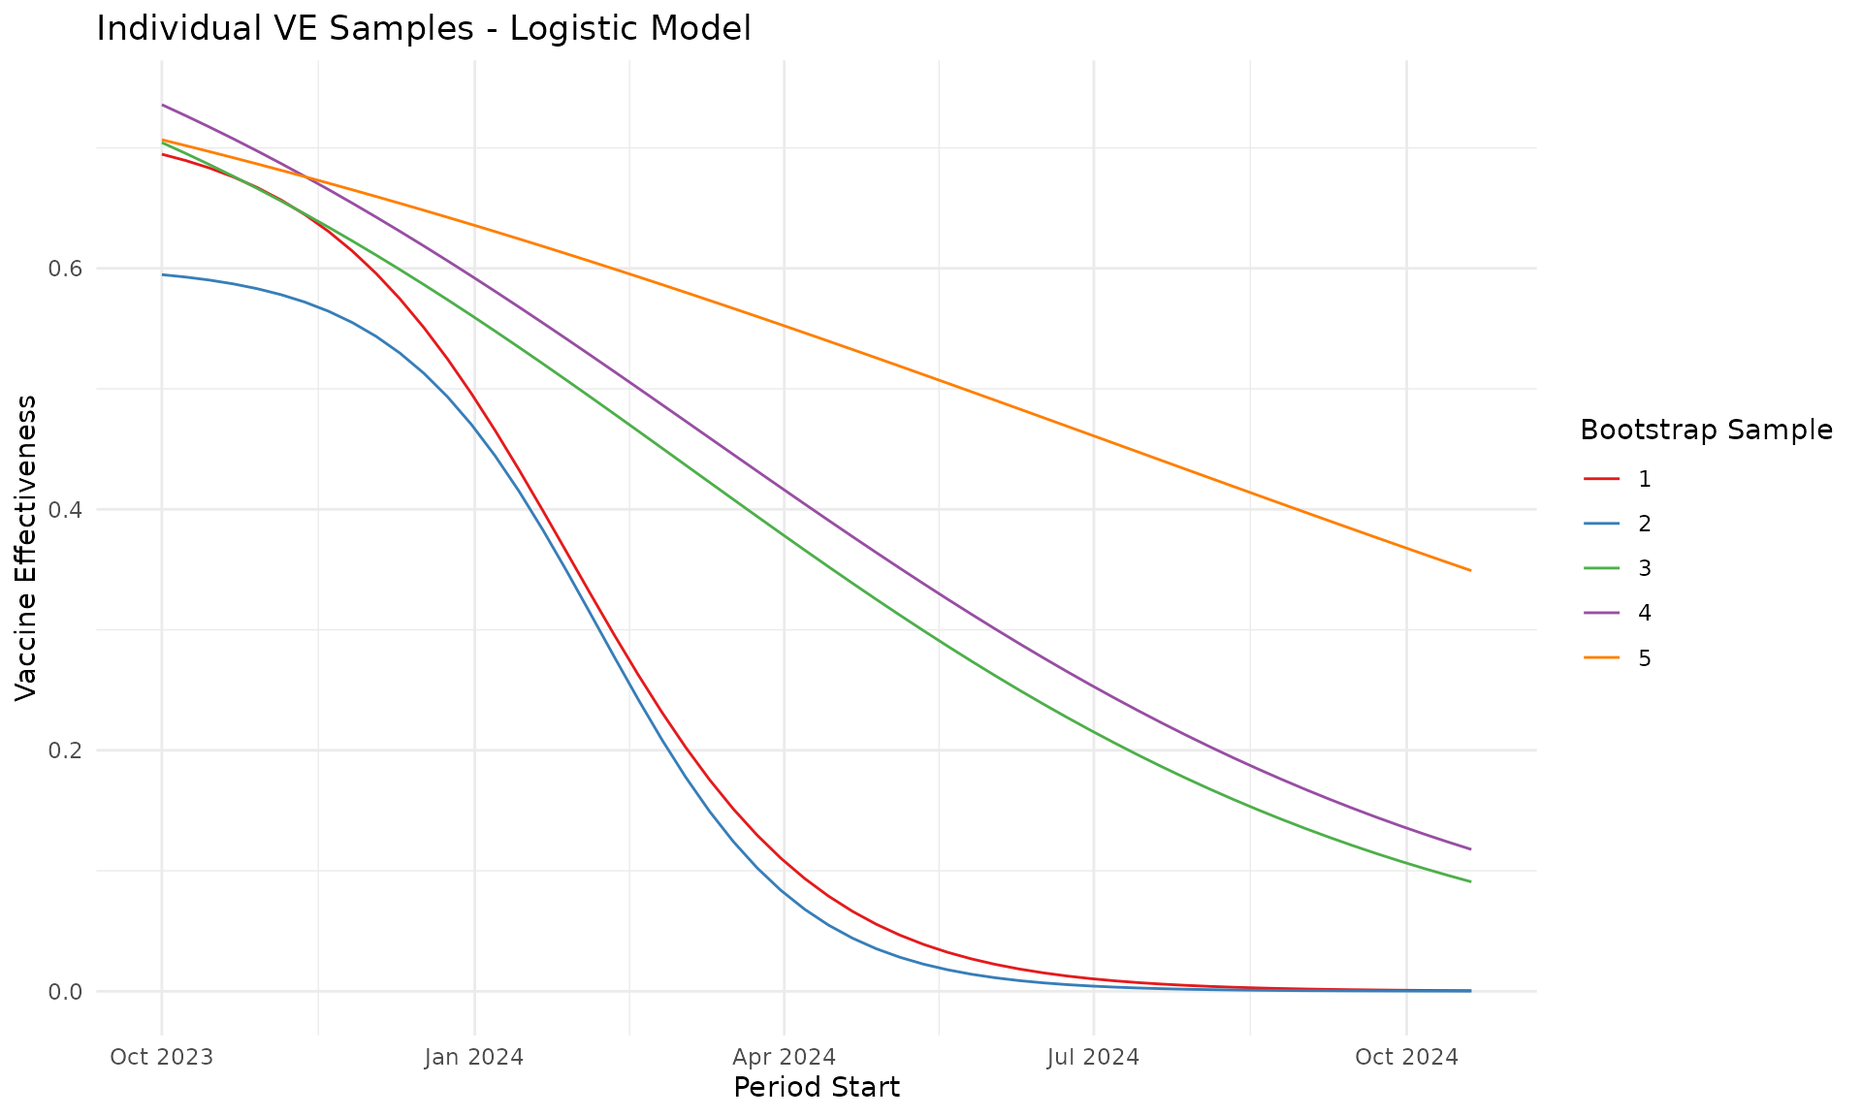
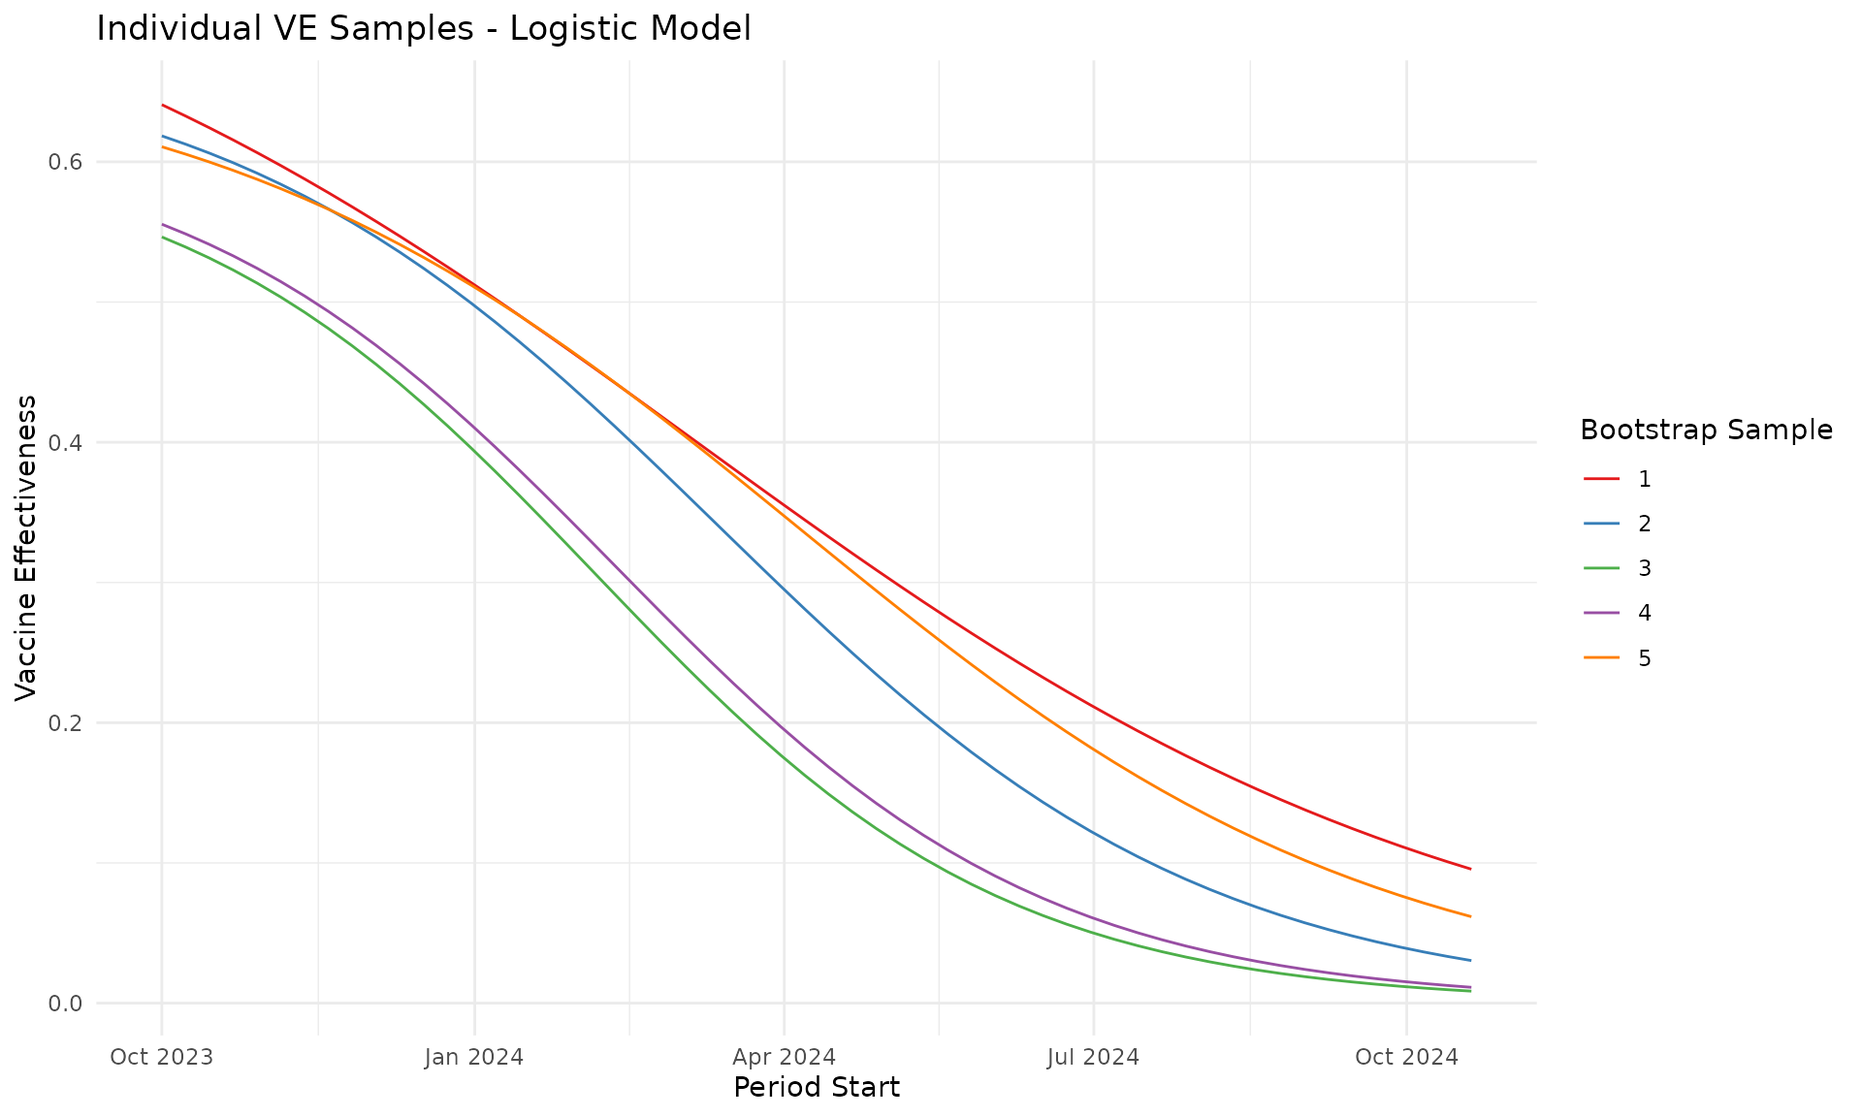
Deploying to gh-pages from @ Epiconcept-Paris/VEBIS_EHR_VE_impact_study_interpolation@4ecc50736e0a89361416a8e4a67c9f45e6cae219 🚀

diff --git a/articles/interpolate_monthly_data_to_weekly_data.html b/articles/interpolate_monthly_data_to_weekly_data.html
@@ -103,12 +103,12 @@ estimates of vaccine effectiveness (VE) for 12 months.</p>
 <span></span>
 <span><span class="fu"><a href="https://rdrr.io/r/utils/head.html" class="external-link">head</a></span><span class="op">(</span><span class="va">sample_8_weeks_data</span><span class="op">)</span></span>
 <span><span class="co">#&gt;     date_min   date_max  estimate     CIlow    CIhigh</span></span>
-<span><span class="co">#&gt; 1 2023-10-01 2023-11-25 0.3276797 0.2154526 0.4983649</span></span>
-<span><span class="co">#&gt; 2 2023-11-01 2023-12-26 0.3770901 0.2416050 0.5885513</span></span>
-<span><span class="co">#&gt; 3 2023-12-01 2024-01-25 0.5349426 0.3715068 0.7702782</span></span>
-<span><span class="co">#&gt; 4 2024-01-01 2024-02-25 0.5214007 0.3533253 0.7694288</span></span>
-<span><span class="co">#&gt; 5 2024-02-01 2024-03-27 0.6580922 0.5178351 0.8363384</span></span>
-<span><span class="co">#&gt; 6 2024-03-01 2024-04-25 0.8078334 0.6814823 0.9576109</span></span></code></pre></div>
+<span><span class="co">#&gt; 1 2023-10-01 2023-11-25 0.3933690 0.3295481 0.4695496</span></span>
+<span><span class="co">#&gt; 2 2023-11-01 2023-12-26 0.4893167 0.4321941 0.5539892</span></span>
+<span><span class="co">#&gt; 3 2023-12-01 2024-01-25 0.4392504 0.3965828 0.4865086</span></span>
+<span><span class="co">#&gt; 4 2024-01-01 2024-02-25 0.6192837 0.5287789 0.7252791</span></span>
+<span><span class="co">#&gt; 5 2024-02-01 2024-03-27 0.5407841 0.4644212 0.6297030</span></span>
+<span><span class="co">#&gt; 6 2024-03-01 2024-04-25 0.7600000 0.6337632 0.9113814</span></span></code></pre></div>
 <div class="sourceCode" id="cb3"><pre class="downlit sourceCode r">
 <code class="sourceCode R"><span><span class="fu"><a href="https://ggplot2.tidyverse.org/reference/ggplot.html" class="external-link">ggplot</a></span><span class="op">(</span><span class="va">sample_8_weeks_data</span>, <span class="fu"><a href="https://ggplot2.tidyverse.org/reference/aes.html" class="external-link">aes</a></span><span class="op">(</span>x <span class="op">=</span> <span class="va">date_min</span>, y <span class="op">=</span> <span class="fl">1</span> <span class="op">-</span> <span class="va">estimate</span><span class="op">)</span><span class="op">)</span> <span class="op">+</span></span>
 <span>    <span class="fu"><a href="https://ggplot2.tidyverse.org/reference/geom_point.html" class="external-link">geom_point</a></span><span class="op">(</span><span class="op">)</span> <span class="op">+</span></span>
@@ -148,29 +148,19 @@ estimates of vaccine effectiveness (VE) for 12 months.</p>
 <span>    periods_ends <span class="op">=</span> <span class="va">sample_8_weeks_data</span><span class="op">$</span><span class="va">date_max</span>,</span>
 <span>    nboot <span class="op">=</span> <span class="va">nbootstrap</span>,</span>
 <span>    seed <span class="op">=</span> <span class="va">seed_to_use</span></span>
-<span><span class="op">)</span></span>
-<span></span>
-<span><span class="co"># View the results</span></span>
-<span><span class="fu"><a href="https://rdrr.io/r/base/cat.html" class="external-link">cat</a></span><span class="op">(</span><span class="st">"Exponential Model Results:\n"</span><span class="op">)</span></span>
-<span><span class="co">#&gt; Exponential Model Results:</span></span>
-<span><span class="fu"><a href="https://rdrr.io/r/base/cat.html" class="external-link">cat</a></span><span class="op">(</span><span class="st">"Coefficients:"</span>, <span class="fu"><a href="https://rdrr.io/r/base/paste.html" class="external-link">paste</a></span><span class="op">(</span><span class="fu"><a href="https://rdrr.io/r/base/names.html" class="external-link">names</a></span><span class="op">(</span><span class="va">exponential_model</span><span class="op">$</span><span class="fu">get_optimal_params</span><span class="op">(</span><span class="op">)</span><span class="op">)</span>,</span>
-<span>    <span class="st">"="</span>, <span class="fu"><a href="https://rdrr.io/r/base/Round.html" class="external-link">round</a></span><span class="op">(</span><span class="va">exponential_model</span><span class="op">$</span><span class="fu">get_optimal_params</span><span class="op">(</span><span class="op">)</span>, <span class="fl">4</span><span class="op">)</span>,</span>
-<span>    collapse <span class="op">=</span> <span class="st">", "</span></span>
-<span><span class="op">)</span>, <span class="st">"\n"</span><span class="op">)</span></span>
-<span><span class="co">#&gt; Coefficients: VE0 = 0.8877, decay_rate = 0.0557</span></span>
-<span><span class="fu"><a href="https://rdrr.io/r/base/cat.html" class="external-link">cat</a></span><span class="op">(</span><span class="st">"BIC:"</span>, <span class="va">exponential_model</span><span class="op">$</span><span class="fu">get_bic</span><span class="op">(</span><span class="op">)</span>, <span class="st">"\n"</span><span class="op">)</span></span>
-<span><span class="co">#&gt; BIC: -6.486616</span></span>
-<span><span class="fu"><a href="https://rdrr.io/r/base/cat.html" class="external-link">cat</a></span><span class="op">(</span><span class="st">"Covariance Matrix:\n"</span><span class="op">)</span></span>
+<span><span class="op">)</span></span></code></pre></div>
+<pre><code><span><span class="co">#&gt; Exponential Model Results:</span></span>
+<span><span class="co">#&gt; Coefficients: VE0 = 0.7467, decay_rate = 0.0352</span></span>
+<span><span class="co">#&gt; BIC: -7.576214</span></span>
 <span><span class="co">#&gt; Covariance Matrix:</span></span>
-<span><span class="fu"><a href="https://rdrr.io/r/base/print.html" class="external-link">print</a></span><span class="op">(</span><span class="va">exponential_result</span><span class="op">$</span><span class="va">covariance_matrix</span><span class="op">)</span></span>
 <span><span class="co">#&gt;                     VE0   decay_rate</span></span>
-<span><span class="co">#&gt; VE0        0.0041667081 0.0006664864</span></span>
-<span><span class="co">#&gt; decay_rate 0.0006664864 0.0001455073</span></span></code></pre></div>
+<span><span class="co">#&gt; VE0        0.0030176678 2.601794e-04</span></span>
+<span><span class="co">#&gt; decay_rate 0.0002601794 3.902105e-05</span></span></code></pre>
 </div>
 <div class="section level3">
 <h3 id="logistic-decay-model">Logistic Decay Model<a class="anchor" aria-label="anchor" href="#logistic-decay-model"></a>
 </h3>
-<div class="sourceCode" id="cb6"><pre class="downlit sourceCode r">
+<div class="sourceCode" id="cb7"><pre class="downlit sourceCode r">
 <code class="sourceCode R"><span><span class="co"># Create logistic model using the R6 class</span></span>
 <span><span class="va">logistic_model</span> <span class="op">&lt;-</span> <span class="va"><a href="../reference/DecayModel.html">DecayModel</a></span><span class="op">$</span><span class="fu">new</span><span class="op">(</span></span>
 <span>    name <span class="op">=</span> <span class="st">"logistic"</span>,</span>
@@ -192,31 +182,21 @@ estimates of vaccine effectiveness (VE) for 12 months.</p>
 <span>    periods_ends <span class="op">=</span> <span class="va">sample_8_weeks_data</span><span class="op">$</span><span class="va">date_max</span>,</span>
 <span>    nboot <span class="op">=</span> <span class="va">nbootstrap</span>,</span>
 <span>    seed <span class="op">=</span> <span class="va">seed_to_use</span></span>
-<span><span class="op">)</span></span>
-<span></span>
-<span><span class="co"># View the results</span></span>
-<span><span class="fu"><a href="https://rdrr.io/r/base/cat.html" class="external-link">cat</a></span><span class="op">(</span><span class="st">"Logistic Model Results:\n"</span><span class="op">)</span></span>
-<span><span class="co">#&gt; Logistic Model Results:</span></span>
-<span><span class="fu"><a href="https://rdrr.io/r/base/cat.html" class="external-link">cat</a></span><span class="op">(</span><span class="st">"Coefficients:"</span>, <span class="fu"><a href="https://rdrr.io/r/base/paste.html" class="external-link">paste</a></span><span class="op">(</span><span class="fu"><a href="https://rdrr.io/r/base/names.html" class="external-link">names</a></span><span class="op">(</span><span class="va">logistic_model</span><span class="op">$</span><span class="fu">get_optimal_params</span><span class="op">(</span><span class="op">)</span><span class="op">)</span>,</span>
-<span>    <span class="st">"="</span>, <span class="fu"><a href="https://rdrr.io/r/base/Round.html" class="external-link">round</a></span><span class="op">(</span><span class="va">logistic_model</span><span class="op">$</span><span class="fu">get_optimal_params</span><span class="op">(</span><span class="op">)</span>, <span class="fl">4</span><span class="op">)</span>,</span>
-<span>    collapse <span class="op">=</span> <span class="st">", "</span></span>
-<span><span class="op">)</span>, <span class="st">"\n"</span><span class="op">)</span></span>
-<span><span class="co">#&gt; Coefficients: VE0 = 0.7517, decay_rate = 0.1404, constant = 0.0697</span></span>
-<span><span class="fu"><a href="https://rdrr.io/r/base/cat.html" class="external-link">cat</a></span><span class="op">(</span><span class="st">"BIC:"</span>, <span class="va">logistic_model</span><span class="op">$</span><span class="fu">get_bic</span><span class="op">(</span><span class="op">)</span>, <span class="st">"\n"</span><span class="op">)</span></span>
-<span><span class="co">#&gt; BIC: -13.05747</span></span>
-<span><span class="fu"><a href="https://rdrr.io/r/base/cat.html" class="external-link">cat</a></span><span class="op">(</span><span class="st">"Covariance Matrix:\n"</span><span class="op">)</span></span>
+<span><span class="op">)</span></span></code></pre></div>
+<pre><code><span><span class="co">#&gt; Logistic Model Results:</span></span>
+<span><span class="co">#&gt; Coefficients: VE0 = 0.6187, decay_rate = 0.1165, constant = 0.0413</span></span>
+<span><span class="co">#&gt; BIC: -12.5939</span></span>
 <span><span class="co">#&gt; Covariance Matrix:</span></span>
-<span><span class="fu"><a href="https://rdrr.io/r/base/print.html" class="external-link">print</a></span><span class="op">(</span><span class="va">logistic_result</span><span class="op">$</span><span class="va">covariance_matrix</span><span class="op">)</span></span>
 <span><span class="co">#&gt;                     VE0   decay_rate     constant</span></span>
-<span><span class="co">#&gt; VE0         0.018307538 -0.006663282  0.016489514</span></span>
-<span><span class="co">#&gt; decay_rate -0.006663282  0.003320058 -0.006499278</span></span>
-<span><span class="co">#&gt; constant    0.016489514 -0.006499278  0.016215018</span></span></code></pre></div>
+<span><span class="co">#&gt; VE0         0.012564010 -0.002891526  0.012506712</span></span>
+<span><span class="co">#&gt; decay_rate -0.002891526  0.001035223 -0.002968276</span></span>
+<span><span class="co">#&gt; constant    0.012506712 -0.002968276  0.013898031</span></span></code></pre>
 </div>
 </div>
 <div class="section level2">
 <h2 id="visualizing-individual-models">Visualizing Individual Models<a class="anchor" aria-label="anchor" href="#visualizing-individual-models"></a>
 </h2>
-<div class="sourceCode" id="cb7"><pre class="downlit sourceCode r">
+<div class="sourceCode" id="cb9"><pre class="downlit sourceCode r">
 <code class="sourceCode R"><span><span class="co"># Plot exponential model</span></span>
 <span><span class="va">p1</span> <span class="op">&lt;-</span> <span class="va">exponential_model</span><span class="op">$</span><span class="fu">plot_optimal</span><span class="op">(</span></span>
 <span>    estimate <span class="op">=</span> <span class="va">sample_8_weeks_data</span><span class="op">$</span><span class="va">estimate</span>,</span>
@@ -252,7 +232,7 @@ estimates of vaccine effectiveness (VE) for 12 months.</p>
 <div class="section level2">
 <h2 id="comparing-multiple-models-at-once">Comparing multiple models at once<a class="anchor" aria-label="anchor" href="#comparing-multiple-models-at-once"></a>
 </h2>
-<div class="sourceCode" id="cb8"><pre class="downlit sourceCode r">
+<div class="sourceCode" id="cb10"><pre class="downlit sourceCode r">
 <code class="sourceCode R"><span><span class="va">comparison_result</span> <span class="op">&lt;-</span> <span class="fu"><a href="../reference/compare_decay_models.html">compare_decay_models</a></span><span class="op">(</span></span>
 <span>    model_names <span class="op">=</span> <span class="fu"><a href="https://rdrr.io/r/base/c.html" class="external-link">c</a></span><span class="op">(</span><span class="st">"exponential"</span>, <span class="st">"logistic"</span><span class="op">)</span>,</span>
 <span>    estimate <span class="op">=</span> <span class="va">sample_8_weeks_data</span><span class="op">$</span><span class="va">estimate</span>,</span>
@@ -269,8 +249,8 @@ estimates of vaccine effectiveness (VE) for 12 months.</p>
 <span><span class="co">#&gt; Model Comparison Summary:</span></span>
 <span><span class="fu"><a href="https://rdrr.io/r/base/print.html" class="external-link">print</a></span><span class="op">(</span><span class="va">comparison_result</span><span class="op">$</span><span class="va">summary</span><span class="op">)</span></span>
 <span><span class="co">#&gt;         model        aic        bic</span></span>
-<span><span class="co">#&gt; 1 exponential  -7.941336  -6.486616</span></span>
-<span><span class="co">#&gt; 2    logistic -14.997094 -13.057468</span></span>
+<span><span class="co">#&gt; 1 exponential  -9.030934  -7.576214</span></span>
+<span><span class="co">#&gt; 2    logistic -14.533530 -12.593904</span></span>
 <span></span>
 <span><span class="co"># Find best model based on BIC</span></span>
 <span><span class="va">best_model_bic</span> <span class="op">&lt;-</span> <span class="fu"><a href="../reference/compare_decay_models.html">get_best_model</a></span><span class="op">(</span><span class="va">comparison_result</span>, criterion <span class="op">=</span> <span class="st">"bic"</span><span class="op">)</span></span>
@@ -278,12 +258,12 @@ estimates of vaccine effectiveness (VE) for 12 months.</p>
 <span><span class="co">#&gt; </span></span>
 <span><span class="co">#&gt; Best model based on BIC: logistic</span></span>
 <span><span class="fu"><a href="https://rdrr.io/r/base/cat.html" class="external-link">cat</a></span><span class="op">(</span><span class="st">"Best BIC:"</span>, <span class="va">best_model_bic</span><span class="op">$</span><span class="va">criterion</span>, <span class="st">"\n"</span><span class="op">)</span></span>
-<span><span class="co">#&gt; Best BIC: -13.05747</span></span></code></pre></div>
+<span><span class="co">#&gt; Best BIC: -12.5939</span></span></code></pre></div>
 </div>
 <div class="section level2">
 <h2 id="model-comparison-plot">Model Comparison Plot<a class="anchor" aria-label="anchor" href="#model-comparison-plot"></a>
 </h2>
-<div class="sourceCode" id="cb9"><pre class="downlit sourceCode r">
+<div class="sourceCode" id="cb11"><pre class="downlit sourceCode r">
 <code class="sourceCode R"><span><span class="co"># Create comparison plot using BIC criterion</span></span>
 <span><span class="va">comparison_plot</span> <span class="op">&lt;-</span> <span class="fu"><a href="../reference/compare_decay_models.html">plot_model_comparison</a></span><span class="op">(</span></span>
 <span>    comparison_result <span class="op">=</span> <span class="va">comparison_result</span>,</span>
@@ -309,7 +289,7 @@ matrix<a class="anchor" aria-label="anchor" href="#generate-many-weekly-ve-sampl
 <p>The new <code>generate_VE_based_on_boot_fit</code> method allows us
 to generate VE samples based on the bootstrap covariance matrix,
 providing uncertainty quantification:</p>
-<div class="sourceCode" id="cb10"><pre class="downlit sourceCode r">
+<div class="sourceCode" id="cb12"><pre class="downlit sourceCode r">
 <code class="sourceCode R"><span><span class="co"># Generate VE samples based on bootstrap fit</span></span>
 <span><span class="va">ve_samples</span> <span class="op">&lt;-</span> <span class="va">best_model_bic</span><span class="op">$</span><span class="va">model</span><span class="op">$</span><span class="fu">generate_VE_based_on_boot_fit</span><span class="op">(</span></span>
 <span>    periods_starts <span class="op">=</span> <span class="va">sample_8_weeks_data</span><span class="op">$</span><span class="va">date_min</span>,</span>
@@ -319,28 +299,25 @@ providing uncertainty quantification:</p>
 <span></span>
 <span><span class="fu"><a href="https://rdrr.io/r/base/print.html" class="external-link">print</a></span><span class="op">(</span><span class="fu"><a href="https://rdrr.io/r/utils/head.html" class="external-link">head</a></span><span class="op">(</span><span class="va">ve_samples</span>, <span class="fl">10</span><span class="op">)</span><span class="op">)</span></span>
 <span><span class="co">#&gt;    period_start period_end        VE ve_sample</span></span>
-<span><span class="co">#&gt; 1    2023-10-01 2023-10-07 0.6319967         1</span></span>
-<span><span class="co">#&gt; 2    2023-10-08 2023-10-14 0.6301871         1</span></span>
-<span><span class="co">#&gt; 3    2023-10-15 2023-10-21 0.6279660         1</span></span>
-<span><span class="co">#&gt; 4    2023-10-22 2023-10-28 0.6252437         1</span></span>
-<span><span class="co">#&gt; 5    2023-10-29 2023-11-04 0.6219132         1</span></span>
-<span><span class="co">#&gt; 6    2023-11-05 2023-11-11 0.6178477         1</span></span>
-<span><span class="co">#&gt; 7    2023-11-12 2023-11-18 0.6128982         1</span></span>
-<span><span class="co">#&gt; 8    2023-11-19 2023-11-25 0.6068925         1</span></span>
-<span><span class="co">#&gt; 9    2023-11-26 2023-12-02 0.5996340         1</span></span>
-<span><span class="co">#&gt; 10   2023-12-03 2023-12-09 0.5909037         1</span></span></code></pre></div>
+<span><span class="co">#&gt; 1    2023-10-01 2023-10-07 0.5713216         1</span></span>
+<span><span class="co">#&gt; 2    2023-10-08 2023-10-14 0.5634166         1</span></span>
+<span><span class="co">#&gt; 3    2023-10-15 2023-10-21 0.5545968         1</span></span>
+<span><span class="co">#&gt; 4    2023-10-22 2023-10-28 0.5447945         1</span></span>
+<span><span class="co">#&gt; 5    2023-10-29 2023-11-04 0.5339474         1</span></span>
+<span><span class="co">#&gt; 6    2023-11-05 2023-11-11 0.5220015         1</span></span>
+<span><span class="co">#&gt; 7    2023-11-12 2023-11-18 0.5089149         1</span></span>
+<span><span class="co">#&gt; 8    2023-11-19 2023-11-25 0.4946610         1</span></span>
+<span><span class="co">#&gt; 9    2023-11-26 2023-12-02 0.4792335         1</span></span>
+<span><span class="co">#&gt; 10   2023-12-03 2023-12-09 0.4626488         1</span></span></code></pre></div>
 <div class="section level3">
 <h3 id="ve-with-uncertainty-bands">VE with Uncertainty Bands<a class="anchor" aria-label="anchor" href="#ve-with-uncertainty-bands"></a>
 </h3>
-<div class="sourceCode" id="cb11"><pre class="downlit sourceCode r">
+<div class="sourceCode" id="cb13"><pre class="downlit sourceCode r">
 <code class="sourceCode R"><span><span class="co"># Plot VE with uncertainty bands</span></span>
 <span><span class="va">uncertainty_plot</span> <span class="op">&lt;-</span> <span class="va">best_model_bic</span><span class="op">$</span><span class="va">model</span><span class="op">$</span><span class="fu">plot_VE_with_uncertainty</span><span class="op">(</span></span>
 <span>    periods_starts <span class="op">=</span> <span class="va">sample_8_weeks_data</span><span class="op">$</span><span class="va">date_min</span>,</span>
 <span>    periods_ends <span class="op">=</span> <span class="va">sample_8_weeks_data</span><span class="op">$</span><span class="va">date_max</span>,</span>
-<span>    title <span class="op">=</span> <span class="st">"Logistic Model VE with uncertainty"</span>,</span>
-<span>    color <span class="op">=</span> <span class="st">"darkblue"</span>,</span>
-<span>    alpha <span class="op">=</span> <span class="fl">0.4</span>,</span>
-<span>    show_points <span class="op">=</span> <span class="cn">TRUE</span></span>
+<span>    title <span class="op">=</span> <span class="st">"Logistic Model VE with uncertainty"</span></span>
 <span><span class="op">)</span></span>
 <span></span>
 <span><span class="fu"><a href="https://rdrr.io/r/base/print.html" class="external-link">print</a></span><span class="op">(</span><span class="va">uncertainty_plot</span><span class="op">)</span></span></code></pre></div>
@@ -349,7 +326,7 @@ providing uncertainty quantification:</p>
 <div class="section level3">
 <h3 id="show-individual-ve-samples">Show individual VE samples<a class="anchor" aria-label="anchor" href="#show-individual-ve-samples"></a>
 </h3>
-<div class="sourceCode" id="cb12"><pre class="downlit sourceCode r">
+<div class="sourceCode" id="cb14"><pre class="downlit sourceCode r">
 <code class="sourceCode R"><span><span class="co"># Plot individual bootstrap samples</span></span>
 <span><span class="va">some_ve_plot</span> <span class="op">&lt;-</span> <span class="va">best_model_bic</span><span class="op">$</span><span class="va">model</span><span class="op">$</span><span class="fu">plot_ve_samples</span><span class="op">(</span></span>
 <span>    periods_starts <span class="op">=</span> <span class="va">sample_8_weeks_data</span><span class="op">$</span><span class="va">date_min</span>,</span>
